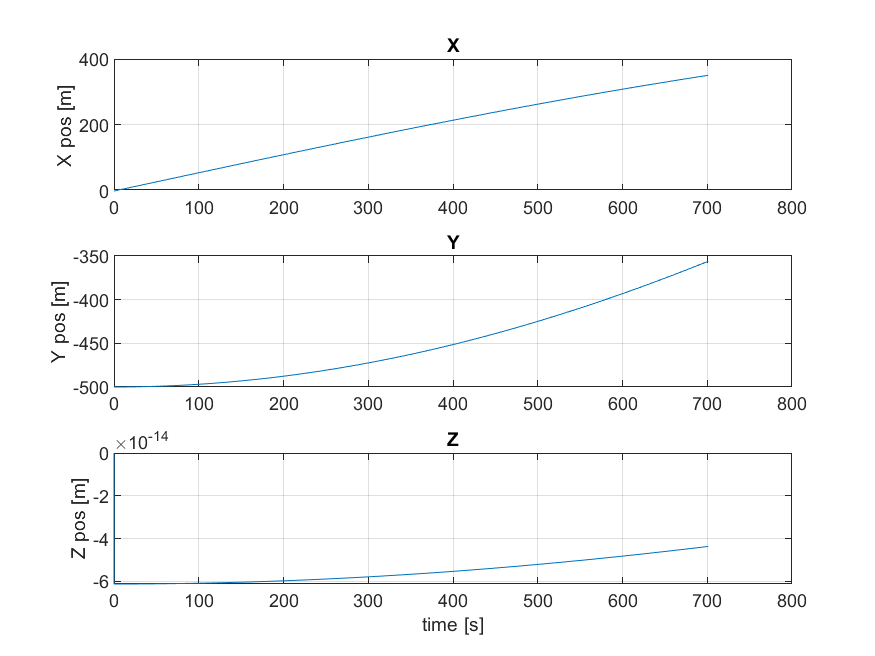
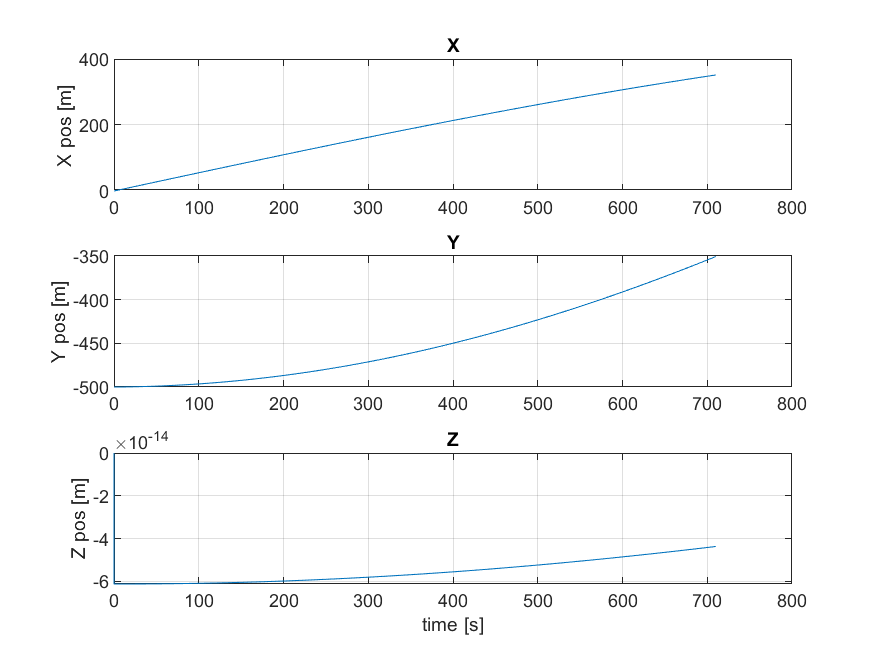
change simulation step

diff --git a/Master_Simulation.m b/Master_Simulation.m
@@ -33,7 +33,7 @@ relative_state_chaser = [ % in CW reference frame centered at target
     ]; % in m CW reference frame centered at target [x, y, z, u, v, w]
 
 %% Simulation constants
-simulation_time_step_large = 1; %s
+simulation_time_step_large = 10; %s
 simulation_time_step_small = 0.3; %s
 
 RotatingEarth = false;
@@ -83,7 +83,7 @@ while running
         time_step = simulation_time_step_small;
     end
 
-    if t > 700
+    if t > 800
         running = false;
     end
     % Global variables
